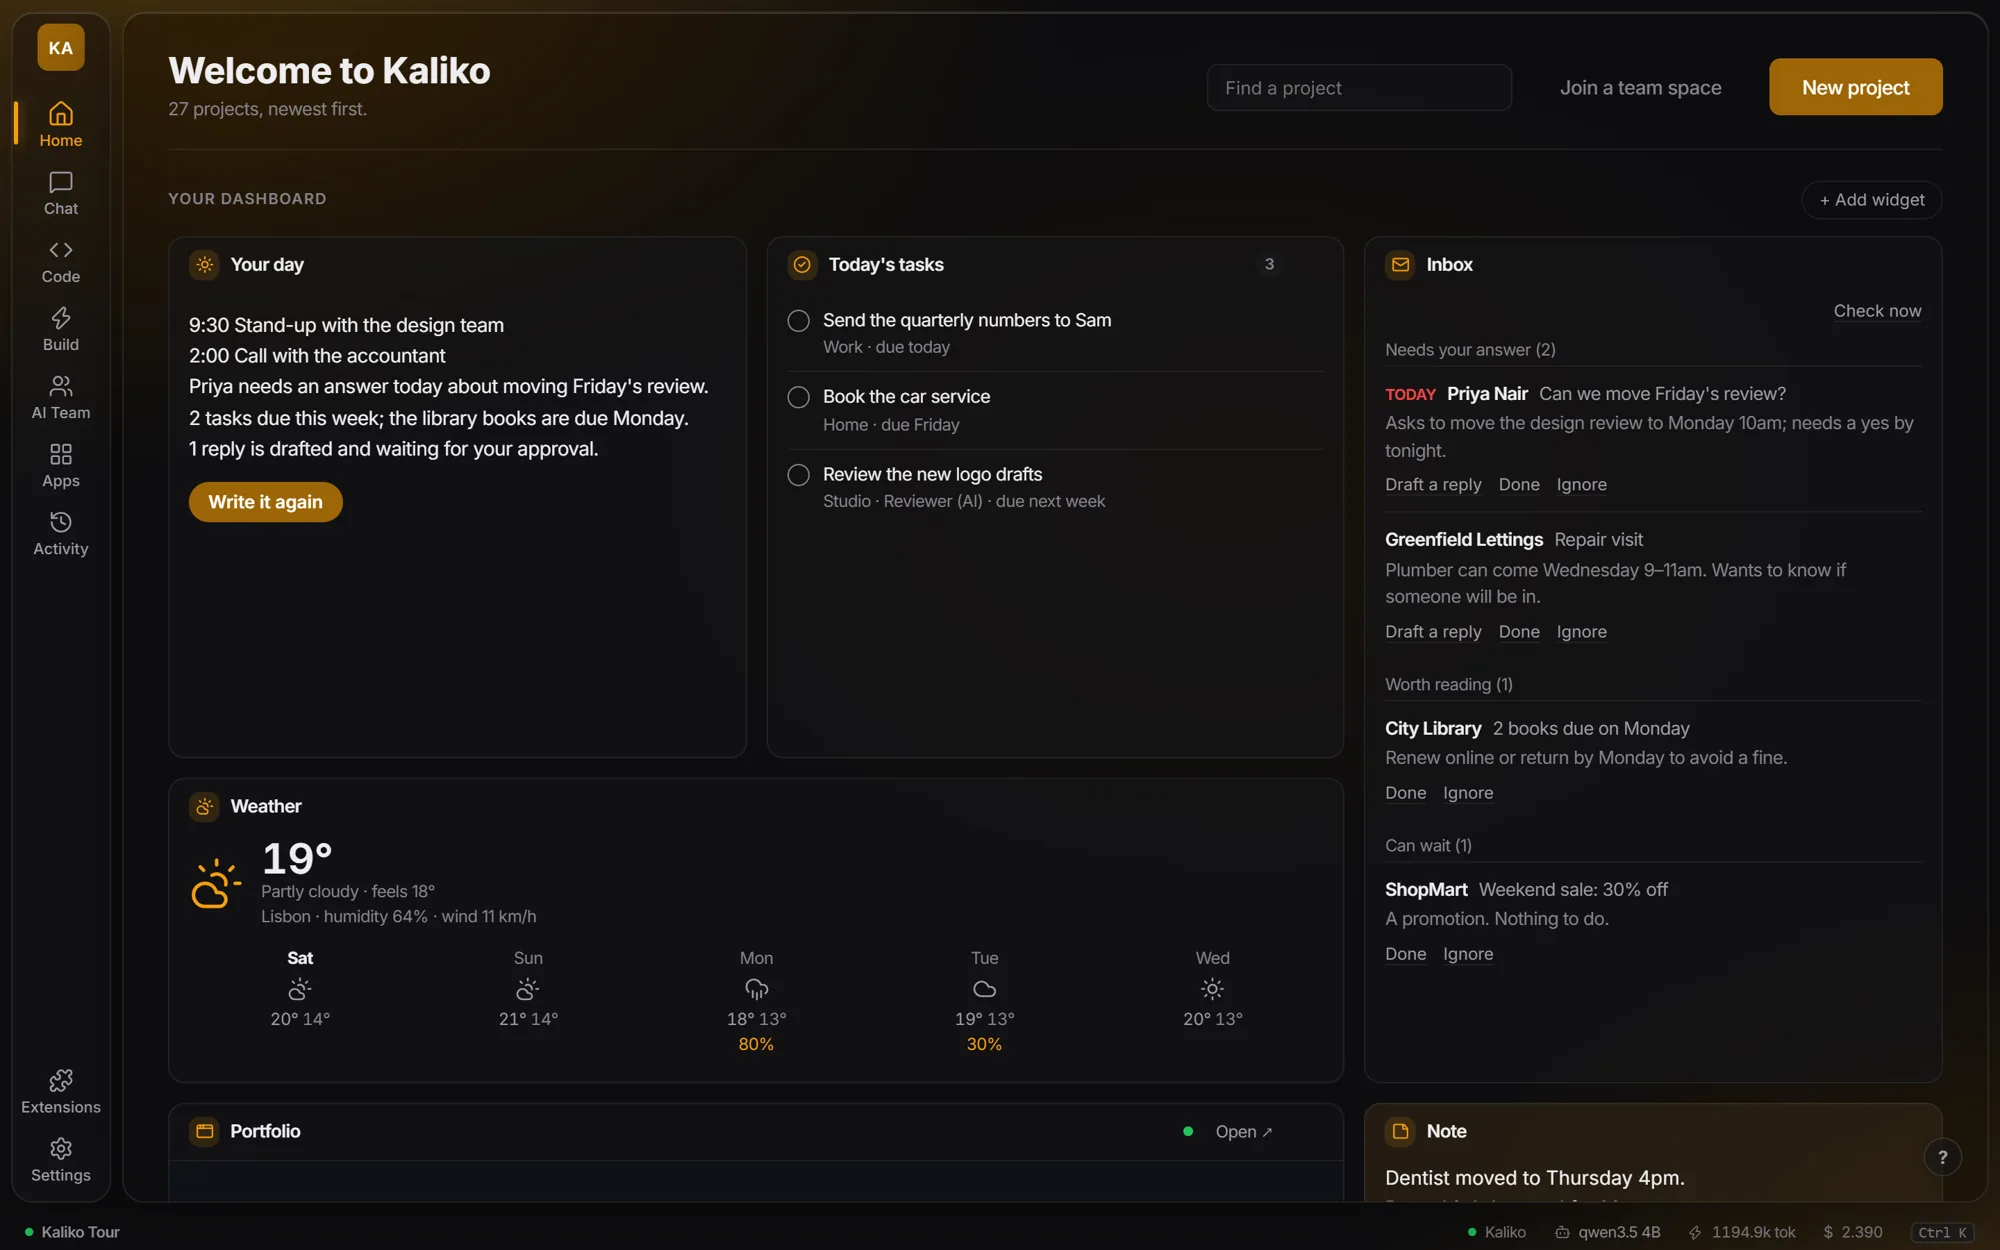
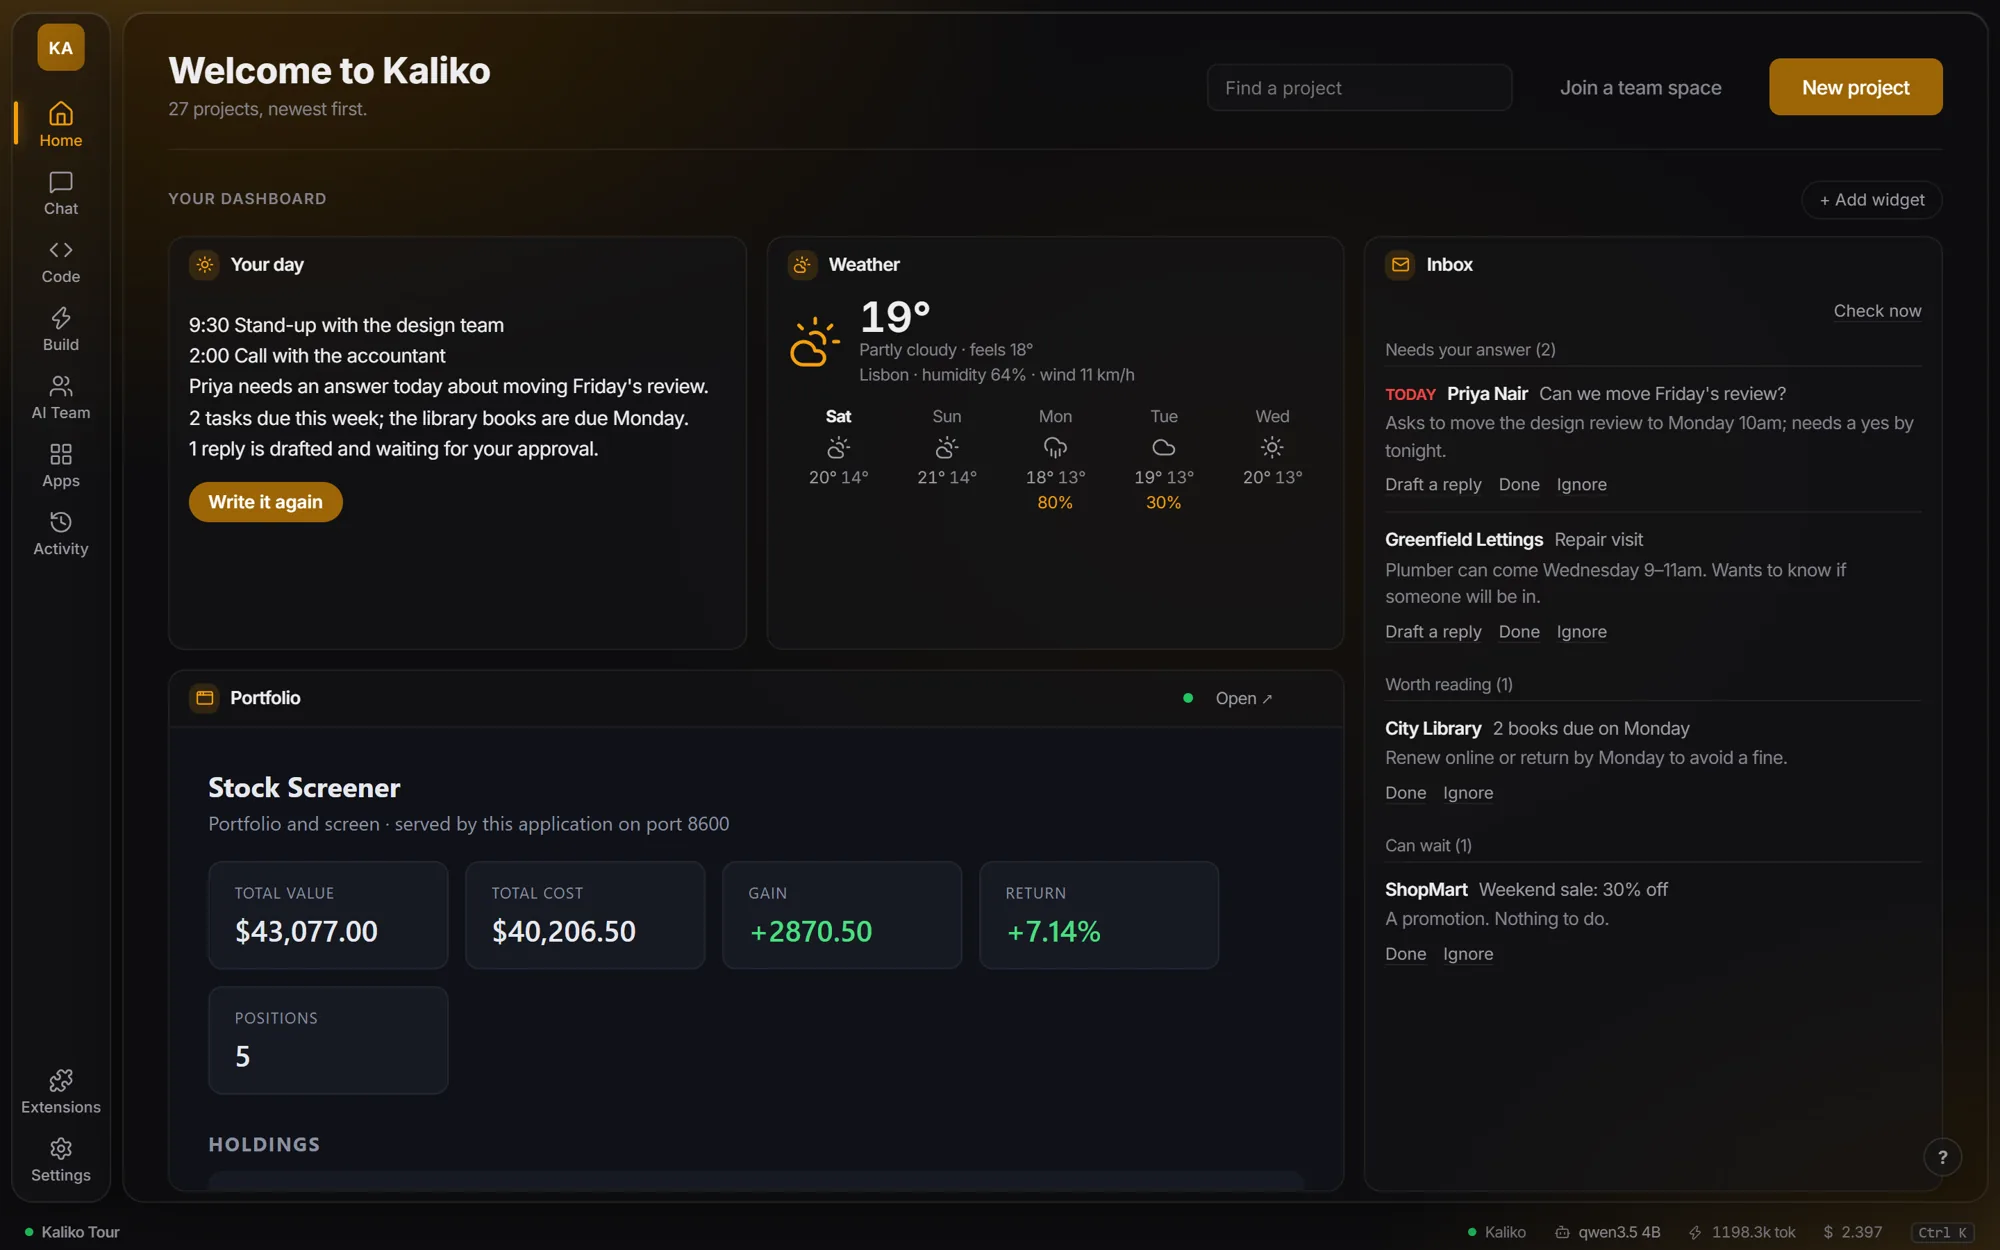
The Dashboard leads the page; the slider shows Chat, Code, AI Team and Automations
- Top: one screenshot of the Dashboard, with the brief, weather, sorted inbox and
  an app Kaliko built running as a widget (sample data)
- "Not just a coding agent": the slider moves to its own section; Chrome leaves
  it and Automations joins (sample automations)
- "Your day" is called Dashboard on the dial; the Your day section goes
- CSP script hash updated

diff --git a/index.html b/index.html
@@ -3,7 +3,7 @@
 <head>
 <meta charset="utf-8">
 <meta name="viewport" content="width=device-width, initial-scale=1">
-<meta http-equiv="Content-Security-Policy" content="default-src 'none'; script-src 'sha256-oUOJx5592573ECNVJomvqdihfpVdRhilANNjMlF0tzA='; style-src 'self' 'unsafe-inline' https://fonts.googleapis.com; font-src https://fonts.gstatic.com; img-src 'self'; base-uri 'none'; form-action 'none'">
+<meta http-equiv="Content-Security-Policy" content="default-src 'none'; script-src 'sha256-Teds/MnfEcQMG78vjzl1/69QrnIuDqPxzkg5ITndmNs='; style-src 'self' 'unsafe-inline' https://fonts.googleapis.com; font-src https://fonts.gstatic.com; img-src 'self'; base-uri 'none'; form-action 'none'">
 <meta name="referrer" content="no-referrer">
 <title>Kaliko Workspace: the Spark for the lower end</title>
 <meta name="description" content="Kaliko Workspace runs local AI on the PC you already have, on its own built-in engine. It chats, reads your files, plans your day, uses Chrome and your apps, and builds apps and automations. Private by default.">
@@ -87,7 +87,7 @@
   .caption { margin-top: 14px; font-size: 14px; color: var(--ink-3); }
 
   /* the tour: one screenshot per part of Kaliko */
-  .tour { margin-top: 64px; }
+  .tour { margin-top: 48px; }
   .tour .shot { margin-top: 16px; }
   .tabs { display: flex; gap: 8px; flex-wrap: wrap; }
   .tabs button { height: 38px; padding: 0 16px; border-radius: 999px; border: 1px solid var(--line); background: var(--paper);
@@ -131,7 +131,6 @@
   .card-dark img { border-radius: 12px; width: 100%; }
   .row-head { display: grid; grid-template-columns: minmax(0, 1fr) 440px; align-items: end; gap: 48px; margin-top: 16px; }
   .row-head h2 { max-width: 14ch; }
-  #day .shot { margin-top: 48px; }
 
   /* the spark band */
   .spark { margin-top: 128px; background: var(--dark); color: var(--on-dark); padding: 112px 0; }
@@ -248,7 +247,7 @@
     <a class="mark" href="#top"><img src="icon.png" alt="" width="24" height="24">Kaliko</a>
     <nav aria-label="Sections">
       <ul>
-        <li><a href="#day">Your day</a></li>
+        <li><a href="#workspace">Workspace</a></li>
         <li><a href="#apps">Your apps</a></li>
         <li><a href="#hardware">Hardware</a></li>
         <li><a href="#control">Privacy and control</a></li>
@@ -274,47 +273,12 @@
         </div>
       </div>
 
-      <div class="tour" id="tour">
-        <div class="tabs" role="tablist" aria-label="Parts of Kaliko">
-          <button type="button" role="tab" aria-selected="true" aria-controls="s-chat" id="t-chat">Chat</button>
-          <button type="button" role="tab" aria-selected="false" aria-controls="s-code" id="t-code" tabindex="-1">Code</button>
-          <button type="button" role="tab" aria-selected="false" aria-controls="s-team" id="t-team" tabindex="-1">AI Team</button>
-          <button type="button" role="tab" aria-selected="false" aria-controls="s-day" id="t-day" tabindex="-1">Your day</button>
-          <button type="button" role="tab" aria-selected="false" aria-controls="s-web" id="t-web" tabindex="-1">Chrome</button>
-        </div>
-        <div class="shot">
-          <div class="chrome"><i aria-hidden="true"></i><i aria-hidden="true"></i><i aria-hidden="true"></i>
-            <span class="arrows"><button type="button" class="arrow" id="prev" aria-label="Previous">&#8592;</button><button type="button" class="arrow" id="next" aria-label="Next">&#8594;</button></span>
-          </div>
-          <div class="slides" id="slides" tabindex="0" aria-label="Screenshots of Kaliko">
-            <figure class="slide" id="s-chat" role="tabpanel" aria-labelledby="t-chat">
-              <img src="img/chat.webp" width="2000" height="1250" fetchpriority="high"
-                   alt="Kaliko chat in the Glass look: five weeknight dinners under $60 as a table with cooking times and costs, a shopping list, and a reminder set for Saturday at 10am.">
-              <figcaption>Plans, tables and reminders from a 4B model on Kaliko's own engine. Sample conversation.</figcaption>
-            </figure>
-            <figure class="slide" id="s-code" role="tabpanel" aria-labelledby="t-code">
-              <img src="img/code.webp" width="2000" height="1250" loading="lazy"
-                   alt="Kaliko's Code section: a task to add a multiply function and tests, with Kaliko's summary of changes and passing tests, and the task's plan beside it with tabs for Changes, Terminal, Preview, Editor and Git.">
-              <figcaption>Code: a real task, planned step by step, with its changes, terminal and tests beside the chat.</figcaption>
-            </figure>
-            <figure class="slide" id="s-team" role="tabpanel" aria-labelledby="t-team">
-              <img src="img/team.webp" width="2000" height="1250" loading="lazy"
-                   alt="Kaliko's AI Team page: describe the work and Kaliko proposes a team, or start from a software startup, research lab, investment research firm or marketing agency.">
-              <figcaption>AI Team: describe the work and Kaliko proposes the roles, each on a model your PC can run.</figcaption>
-            </figure>
-            <figure class="slide" id="s-day" role="tabpanel" aria-labelledby="t-day">
-              <img src="img/home.webp" width="2000" height="1250" loading="lazy"
-                   alt="Kaliko's Home dashboard: a brief of the day, open tasks, a sorted inbox, weather and an app as a widget.">
-              <figcaption>Home: your day, your mail and your apps as widgets. Sample data.</figcaption>
-            </figure>
-            <figure class="slide" id="s-web" role="tabpanel" aria-labelledby="t-web">
-              <img src="img/browse.webp" width="2000" height="717" loading="lazy"
-                   alt="Kaliko's frame and cursor on a library page in Chrome, renewing a book.">
-              <figcaption>In your Chrome: a frame while Kaliko works, and its cursor on what it clicks. Sample page.</figcaption>
-            </figure>
-          </div>
-        </div>
-      </div>
+      <figure class="shot hero-shot">
+        <div class="chrome" aria-hidden="true"><i></i><i></i><i></i></div>
+        <img src="img/home.webp" width="2000" height="1250" fetchpriority="high"
+             alt="Kaliko's Dashboard: a brief of the day, the weather, an inbox sorted into Needs your answer, Worth reading and Can wait, and a stock portfolio app Kaliko built, running as a widget.">
+      </figure>
+      <p class="caption">The Dashboard: your day, your mail and an app Kaliko built for you, side by side, all running on your PC. Sample data.</p>
 
       <div class="runs">
         <span>Runs models on</span>
@@ -334,19 +298,48 @@
     </div>
   </section>
 
-  <section class="block" id="day">
+  <section class="block" id="workspace">
     <div class="wrap">
-      <p class="eyebrow">Your day</p>
+      <p class="eyebrow">One workspace</p>
       <div class="row-head">
-        <h2>Home is a dashboard of your day.</h2>
-        <p class="lede">A brief in a few lines, your mail sorted by what needs an answer, today's tasks, the weather, and the apps you've built, as widgets you place yourself. Replies are drafted for you to approve. Nothing is sent until you press Send.</p>
+        <h2>Not just a coding agent.</h2>
+        <p class="lede">Chat, code, a team of AI roles and automations live together in each project, on models your PC can run. Pick one to look around.</p>
       </div>
-      <figure class="shot">
-        <div class="chrome" aria-hidden="true"><i></i><i></i><i></i></div>
-        <img src="img/home.webp" width="2000" height="1250" loading="lazy"
-             alt="Kaliko's Home dashboard: a brief of the day, three open tasks, an inbox sorted into Needs your answer, Worth reading and Can wait, a five-day weather widget, and a portfolio app shown as a widget.">
-      </figure>
-      <p class="caption">Kaliko's Home, filled with sample mail, tasks and weather.</p>
+      <div class="tour" id="tour">
+        <div class="tabs" role="tablist" aria-label="Parts of Kaliko">
+          <button type="button" role="tab" aria-selected="true" aria-controls="s-chat" id="t-chat">Chat</button>
+          <button type="button" role="tab" aria-selected="false" aria-controls="s-code" id="t-code" tabindex="-1">Code</button>
+          <button type="button" role="tab" aria-selected="false" aria-controls="s-team" id="t-team" tabindex="-1">AI Team</button>
+          <button type="button" role="tab" aria-selected="false" aria-controls="s-auto" id="t-auto" tabindex="-1">Automations</button>
+        </div>
+        <div class="shot">
+          <div class="chrome"><i aria-hidden="true"></i><i aria-hidden="true"></i><i aria-hidden="true"></i>
+            <span class="arrows"><button type="button" class="arrow" id="prev" aria-label="Previous">&#8592;</button><button type="button" class="arrow" id="next" aria-label="Next">&#8594;</button></span>
+          </div>
+          <div class="slides" id="slides" tabindex="0" aria-label="Screenshots of Kaliko">
+            <figure class="slide" id="s-chat" role="tabpanel" aria-labelledby="t-chat">
+              <img src="img/chat.webp" width="2000" height="1250" loading="lazy"
+                   alt="Kaliko chat: five weeknight dinners under $60 as a table with cooking times and costs, a shopping list, and a reminder set for Saturday at 10am.">
+              <figcaption>Chat: plans, tables and reminders from a 4B model on Kaliko's own engine. Sample conversation.</figcaption>
+            </figure>
+            <figure class="slide" id="s-code" role="tabpanel" aria-labelledby="t-code">
+              <img src="img/code.webp" width="2000" height="1250" loading="lazy"
+                   alt="Kaliko's Code section: a task to add a multiply function and tests, with Kaliko's summary of changes and passing tests, and the task's plan beside it with tabs for Changes, Terminal, Preview, Editor and Git.">
+              <figcaption>Code: a real task, planned step by step, with its changes, terminal and tests beside the chat.</figcaption>
+            </figure>
+            <figure class="slide" id="s-team" role="tabpanel" aria-labelledby="t-team">
+              <img src="img/team.webp" width="2000" height="1250" loading="lazy"
+                   alt="Kaliko's AI Team page: describe the work and Kaliko proposes a team, or start from a software startup, research lab, investment research firm or marketing agency.">
+              <figcaption>AI Team: describe the work and Kaliko proposes the roles, each on a model your PC can run.</figcaption>
+            </figure>
+            <figure class="slide" id="s-auto" role="tabpanel" aria-labelledby="t-auto">
+              <img src="img/automations.webp" width="2000" height="1250" loading="lazy"
+                   alt="Kaliko's Build page, Automate anything in words: automations for morning headlines, an invoices folder into a bills sheet, a weekly spending summary, and drafted replies to client mail.">
+              <figcaption>Automations: say what should happen and when. Kaliko builds the steps and asks before it sends anything. Sample automations.</figcaption>
+            </figure>
+          </div>
+        </div>
+      </div>
     </div>
   </section>
 
@@ -541,7 +534,7 @@
   const STOPS = [
     ["Chat", "Answers, drafts and web lookups from a model on your PC, with sources. It remembers what you ask it to, and reminds you on time.", "Remind me to call the bank at 6pm.", "Done. I'll remind you at 6pm."],
     ["Files", "Reads the PDFs, Word and Excel files in a project's folder, and answers from them.", "What's the notice period in this contract?", "Thirty days, in section 9."],
-    ["Your day", "A brief of your day, mail sorted by what needs you, and replies drafted for you to approve.", "Brief me.", "2 meetings, 1 reply waiting for you, books due Monday."],
+    ["Dashboard", "A brief of your day, mail sorted by what needs you, and replies drafted for you to approve.", "Brief me.", "2 meetings, 1 reply waiting for you, books due Monday."],
     ["Your apps", "Works in your Chrome and in apps like WhatsApp, with a frame and cursor you can see.", "Renew my library books.", "Approve: use the library's site in this chat?"],
     ["Pictures", "Draws pictures on your PC, and reads the ones you give it.", "Draw a poster for the bake sale.", "Here it is, with the date in the corner."],
     ["Apps", "Describe a tool. Kaliko writes it, checks every action, and runs it sandboxed on your PC.", "Build me a reading log.", "Reading Log is ready in Apps."],
